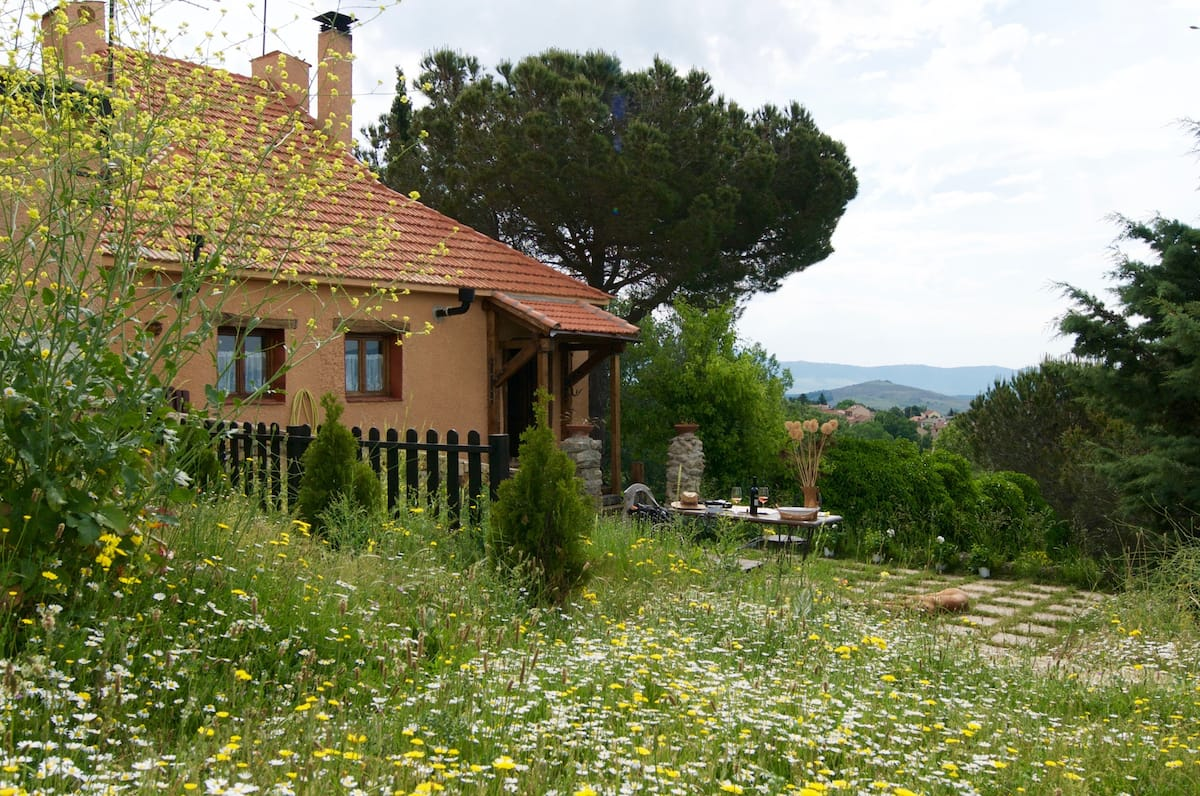
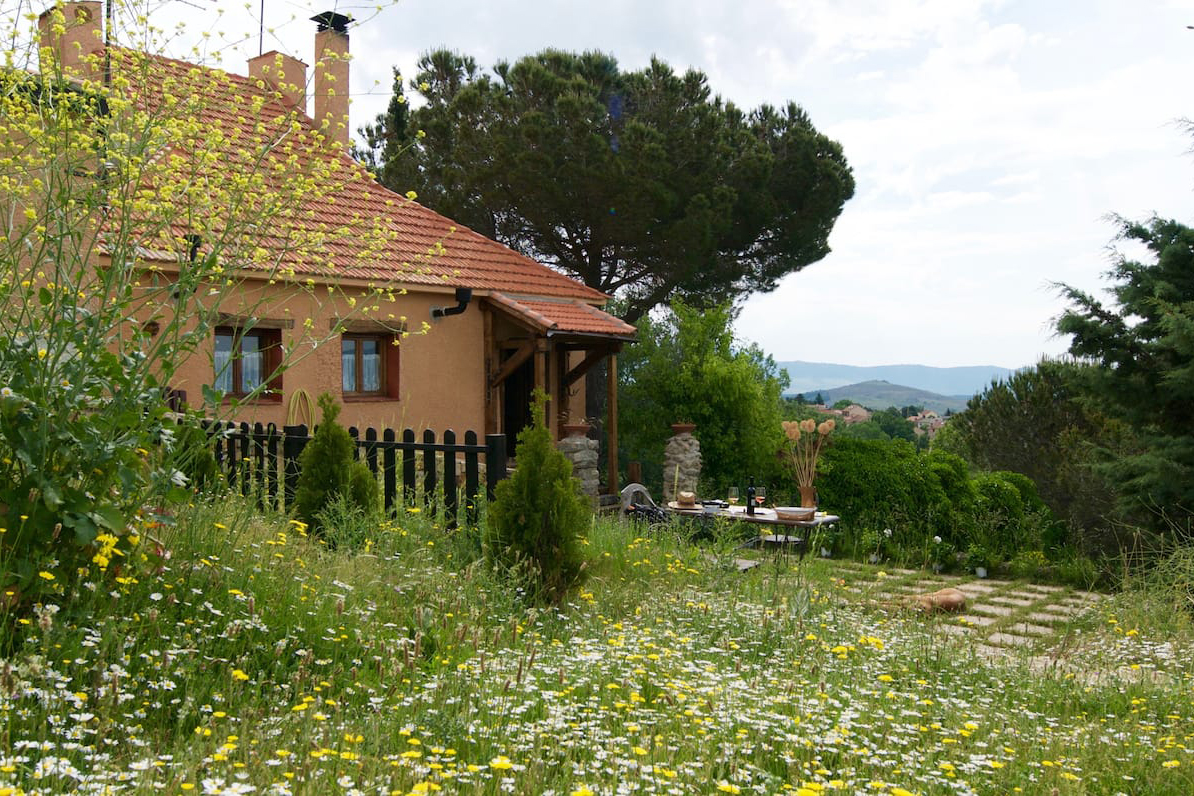
Laboratorio NextJs - Optimización imágenes

diff --git a/05-nextjs/src/pods/house/house.component.tsx b/05-nextjs/src/pods/house/house.component.tsx
@@ -2,6 +2,7 @@ import * as viewModel from './house.vm';
 import classes from './house.module.css';
 import Link from 'next/link';
 import { ReviewItem } from './components';
+import Image from 'next/image';
 
 interface Props {
   house: viewModel.House;
@@ -25,11 +26,12 @@ export const House: React.FC<Props> = (props) => {
       <div className={classes.mainInfo}>
         <div className={classes.imageColumn}>
           <figure className={classes.imageContainer}>
-            <img
+            <Image
               src={house.imageUrl}
               alt={house.name}
+              fill
               className={classes.image}
-              loading="lazy"
+              sizes="(max-width: 992px) 100vw, 700px"
             />
           </figure>
         </div>

diff --git a/05-nextjs/src/pods/house-list/components/house-item.component.tsx b/05-nextjs/src/pods/house-list/components/house-item.component.tsx
@@ -20,15 +20,8 @@ export const HouseItem: React.FC<Props> = (props) => {
           alt={house.name}
           fill
           className={classes.image}
-          sizes="(max-width: 700px) 100vw, (max-width: 1050px) 50vw, 33vw"
+          sizes="(max-width: 814px) 100vw, (max-width: 1200px) 550px, 360px"
         />
-        {/* 
-        <img
-          className={classes.image}
-          src={house.image}
-          alt={house.name}
-          loading="lazy"
-        />*/}
       </figure>
       <div className={classes.titleRating}>
         <h2 className={classes.title}>{house.name}</h2>

diff --git a/05-nextjs/src/pods/house/house.module.css b/05-nextjs/src/pods/house/house.module.css
@@ -1,9 +1,14 @@
 .backButton {
-  display: block;
+  display: inline-block;
   padding-bottom: var(--spacing-md);
   color: var(--colour-primary);
   font-size: var(--font-size-large);
   font-weight: 600;
+  transition: 0.3s ease-in-out;
+}
+
+.backButton:hover {
+  color: var(--colour-accent);
 }
 
 .name {
@@ -21,6 +26,7 @@
 }
 
 .imageContainer {
+  position: relative;
   width: 100%;
   height: 50vw;
   max-width: 100%;
@@ -38,7 +44,6 @@
 .image {
   width: 100%;
   min-height: 100%;
-  object-fit: cover;
   object-fit: cover;
   object-position: center center;
 }

diff --git a/05-nextjs/src/pods/house-list/components/house-item.module.css b/05-nextjs/src/pods/house-list/components/house-item.module.css
@@ -1,4 +1,5 @@
-/*.imageContainer {
+.imageContainer {
+  position: relative;
   margin-bottom: var(--spacing-sm);
   max-width: 100%;
   height: 300px;
@@ -10,21 +11,6 @@
   width: auto;
   max-width: 100%;
   min-height: 100%;
-  object-fit: cover;
-  object-position: center center;
-}
-*/
-
-.imageContainer {
-  position: relative;
-  margin-bottom: var(--spacing-sm);
-  max-width: 100%;
-  height: 300px;
-  border-radius: var(--border-radius-lg);
-  overflow: hidden;
-}
-
-.image {
   object-fit: cover;
   object-position: center center;
 }

diff --git a/05-nextjs/src/pods/house-list/house-list.module.css b/05-nextjs/src/pods/house-list/house-list.module.css
@@ -8,5 +8,14 @@
 }
 
 .li {
+  width: 100%;
   min-width: 0;
+}
+
+.li * {
+  transition: 0.3s ease-in-out;
+}
+
+.li:hover * {
+  color: var(--colour-accent);
 }

diff --git a/05-nextjs/src/app/globals.css b/05-nextjs/src/app/globals.css
@@ -60,6 +60,7 @@ main {
 .container {
   padding: var(--spacing-xl);
   margin-bottom: var(--spacing-xxl);
+  width: 100%;
   max-width: 1200px;
 }
 
